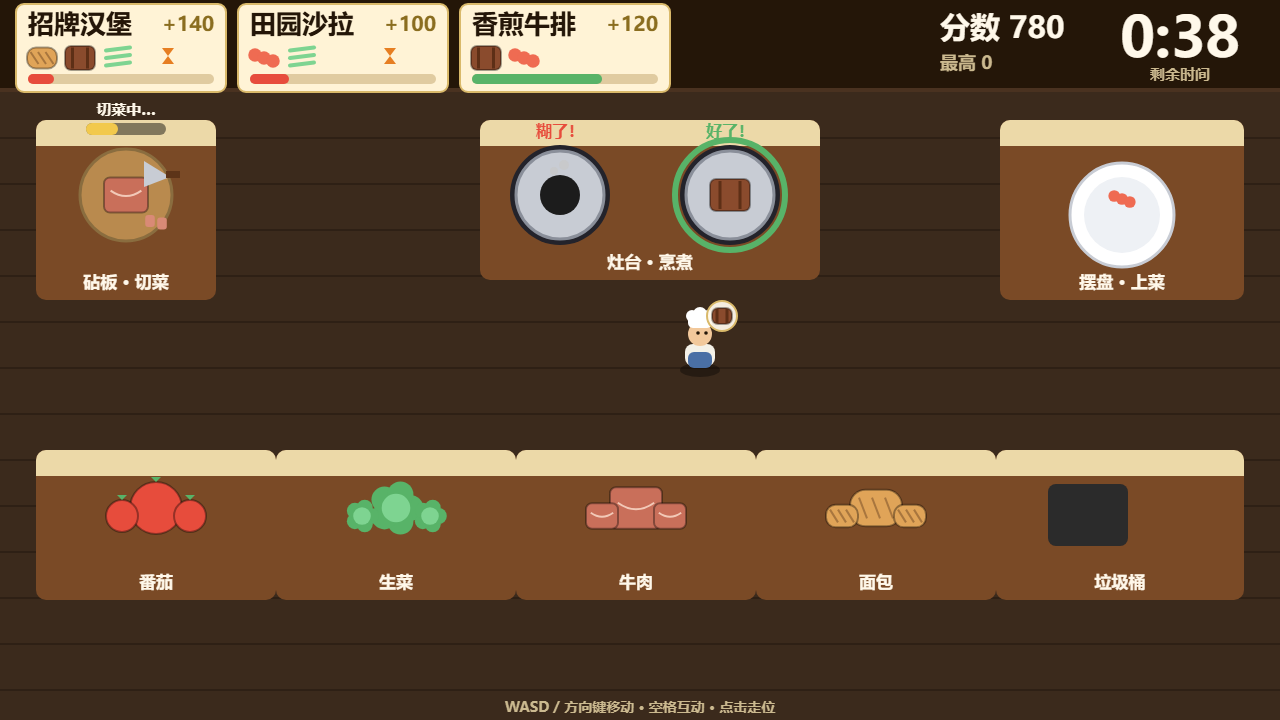
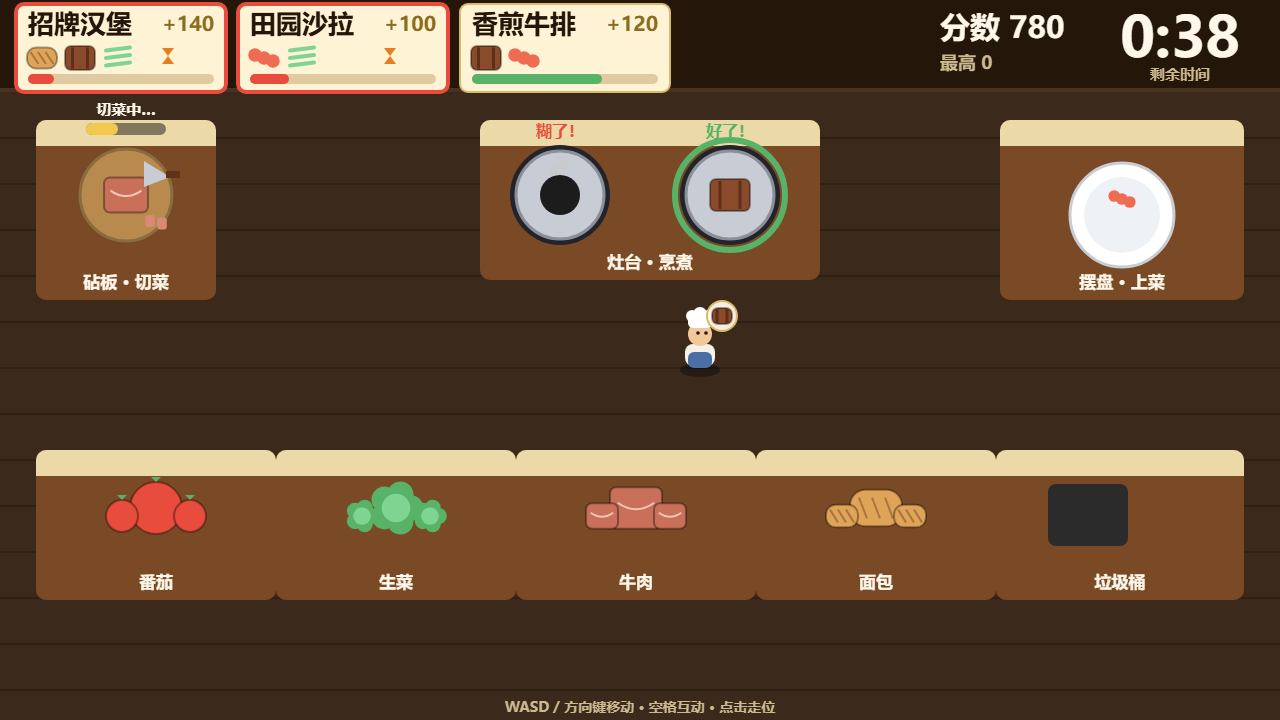
v3: flash text to the wall strip, plate reach +12 so clicks serve from any side, steam over cooking pots

Changed region(s): [[0.0, 0.0, 0.375, 0.1528], [0.3438, 0.0917, 0.375, 0.1222]]

diff --git a/game/src/render.js b/game/src/render.js
@@ -219,6 +219,19 @@ function drawStations(ctx, world, now) {
     ctx.beginPath(); ctx.arc(pot.x, pot.y, pot.r, 0, Math.PI * 2); ctx.fill();
     ctx.strokeStyle = '#8a8f9a'; ctx.lineWidth = 3; ctx.stroke();
     if (p.item) drawIngredient(ctx, p.item, pot.x, pot.y, 20);
+    if (p.state === 'cooking') {
+      // Steam over a cooking pot: three puffs rising and fading, so the frame
+      // reads "still cooking" at a glance instead of a flat grey disc.
+      for (let i = 0; i < 3; i += 1) {
+        const frac = ((now / 900) + i / 3) % 1;
+        ctx.globalAlpha = 0.5 * (1 - frac);
+        ctx.fillStyle = '#c8ccd4';
+        ctx.beginPath();
+        ctx.arc(pot.x - 10 + i * 10, pot.y - pot.r - 8 - frac * 30, 4 + frac * 3, 0, Math.PI * 2);
+        ctx.fill();
+      }
+      ctx.globalAlpha = 1;
+    }
     if (p.state === 'cooking' || p.state === 'done') {
       ctx.strokeStyle = p.state === 'done' ? PALETTE.green : PALETTE.gold;
       ctx.lineWidth = 6;
@@ -280,10 +293,11 @@ function drawHud(ctx, world, now) {
   const low = world.timeLeft <= 30;
   text(ctx, `${mm}:${ss}`, 1180, 42, 56, low ? PALETTE.red : PALETTE.text, 'center');
   text(ctx, '剩余时间', 1180, 76, 15, PALETTE.muted, 'center');
-  // Flash message under the board.
+  // Flash message on the dark wall strip between the tickets and the score:
+  // gold on dark reads at a glance, and it can never touch a counter top.
   if (world.flash && world.flashT > 0) {
     ctx.globalAlpha = Math.min(1, world.flashT);
-    text(ctx, world.flash, FIELD.width / 2, 112, 26, PALETTE.gold, 'center');
+    text(ctx, world.flash, 690, 46, 24, PALETTE.gold, 'center');
     ctx.globalAlpha = 1;
   }
   text(ctx, 'WASD / 方向键移动 · 空格互动 · 点击走位', FIELD.width / 2, 708, 14, PALETTE.muted, 'center');

diff --git a/game/src/world.js b/game/src/world.js
@@ -3,7 +3,7 @@
 // serve or trash, decided by what the chef is carrying and standing next to.
 import {
   FIELD, GAME_SECONDS, STATIONS, BINS, POTS, PLATE_POS, BOARD_POS,
-  INTERACT_RANGE, chopResult, recipeById,
+  INTERACT_RANGE, PLATE_REACH_BONUS, chopResult, recipeById,
 } from './config.js';
 import { createRandom } from './random.js';
 import { createChef, updateChef } from './chef.js';
@@ -62,7 +62,7 @@ export function nearestUsable(world) {
     const d = Math.hypot(x - POTS[i].x, y - POTS[i].y) - POTS[i].r;
     if (d < bestD) { bestD = d; best = { kind: 'pot', index: i }; }
   }
-  const plateD = Math.hypot(x - PLATE_POS.x, y - PLATE_POS.y) - PLATE_POS.r;
+  const plateD = Math.hypot(x - PLATE_POS.x, y - PLATE_POS.y) - PLATE_POS.r - PLATE_REACH_BONUS;
   if (plateD < bestD) { bestD = plateD; best = { kind: 'plate' }; }
   const trashD = distToRect(x, y, STATIONS.trash);
   if (trashD < bestD) { bestD = trashD; best = { kind: 'trash' }; }
@@ -103,7 +103,7 @@ function stationDistance(world, station) {
     const pot = POTS[station.index];
     return Math.hypot(x - pot.x, y - pot.y) - pot.r;
   }
-  if (station.kind === 'plate') return Math.hypot(x - PLATE_POS.x, y - PLATE_POS.y) - PLATE_POS.r;
+  if (station.kind === 'plate') return Math.hypot(x - PLATE_POS.x, y - PLATE_POS.y) - PLATE_POS.r - PLATE_REACH_BONUS;
   if (station.kind === 'trash') return distToRect(x, y, STATIONS.trash);
   return Infinity;
 }

diff --git a/game/src/config.js b/game/src/config.js
@@ -72,6 +72,15 @@ export const PLATE_POS = { x: 1122, y: 215, r: 52 };
 export const BOARD_POS = { x: 126, y: 195, r: 46 };
 export const CHEF_START = { x: 640, y: 385 };
 export const INTERACT_RANGE = 84;
+/**
+ * The plate counter is 244 wide with the plate at its centre, so on a straight
+ * horizontal approach the chef stops 140 px from the plate centre — 88 px from
+ * the rim, 4 px outside INTERACT_RANGE. Diagonal approaches stop a little
+ * further out still (step granularity plus the stuck detector cutting the slow
+ * final creep short), so the plate's interaction reach gets a 12 px allowance
+ * and a click on the plate works from every side.
+ */
+export const PLATE_REACH_BONUS = 12;
 export const CHOP_SECONDS = 1.2;
 export const COOK_SECONDS = 4;
 export const BURN_SECONDS = 8;
